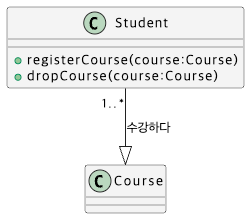
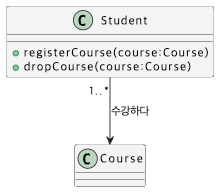
클래스 관계에 따른 UML 구성

diff --git a/src/main/java/modeling/association/checkpoint7/Main.java b/src/main/java/modeling/association/checkpoint7/Main.java
@@ -1,0 +1,120 @@
+package modeling.association.checkpoint7;
+
+import java.util.Vector;
+
+class Student{
+    private String name;
+    private Vector<Transcript> transcripts;
+
+    public Student(String name) {
+        this.name = name;
+        this.transcripts = new Vector<Transcript>();
+    }
+
+    public void addTranscript(Transcript transcript) {
+        this.transcripts.add(transcript);
+    }
+
+    public Vector<Course> getCourses() {
+        Vector<Course> courses = new Vector<Course>();
+        for (Transcript transcript : transcripts) {
+            courses.add(transcript.getCourse());
+        }
+        return courses;
+    }
+}
+
+class Course{
+    private String name;
+    private Vector<Transcript> transcripts;
+
+    public Course(String name) {
+        this.name = name;
+        this.transcripts = new Vector<Transcript>();
+    }
+
+    public void addTranscript(Transcript transcript) {
+        this.transcripts.add(transcript);
+    }
+
+    public String getName() {
+        return name;
+    }
+
+    public Vector<Student> getStudents() {
+        Vector<Student> students = new Vector<Student>();
+        for (Transcript transcript : transcripts) {
+            students.add(transcript.getStudent());
+        }
+        return students;
+    }
+}
+
+class Transcript{
+    private Student student;
+    private Course course;
+    private String date;
+    private String grade;
+
+    public Transcript(Student student, Course course) {
+        this.student = student;
+        this.student.addTranscript(this);
+        this.course = course;
+        this.course.addTranscript(this);
+    }
+
+    public Student getStudent() {
+        return student;
+    }
+
+    public Course getCourse() {
+        return course;
+    }
+
+    public void setDate(String date) {
+        this.date = date;
+    }
+
+    public String getDate() {
+        return date;
+    }
+
+    public void setGrade(String grade) {
+        this.grade = grade;
+    }
+
+    public String getGrade() {
+        return grade;
+    }
+}
+
+
+public class Main {
+    public static void main(String[] args) {
+        Student s1 = new Student("학생1");
+        Student s2 = new Student("학생2");
+
+        Course se = new Course("Software Engineering");
+        Course dp = new Course("Design Pattern");
+
+        Transcript t1 = new Transcript(s1, se); //학생1이 소프트웨어공학 수강
+        Transcript t2 = new Transcript(s1, dp); //학생1이 디자인패턴 수강
+        Transcript t3 = new Transcript(s2, dp); //학생2가 디자인패턴 수강
+
+        //학생1의 수강 학기와 학점 입력(소프트웨어공학에서 2025년 1학기에 A+취득, 디자인패턴에서 2024년 2학기에 A취득)
+        t1.setDate("2025-1");
+        t1.setGrade("A+");
+        t2.setDate("2024-2");
+        t2.setGrade("A");
+        //학생2의 수강 학기와 학점 입력(디자인패턴에서 2025년 2학기에 B취득)
+        t3.setDate("2025-2");
+        t3.setGrade("B");
+
+        //학생1의 수강 내역 출력
+        Vector<Course> courses = s1.getCourses();
+        for (Course course : courses) {
+            System.out.println(course.getName());
+        }
+
+    }
+}

diff --git a/src/main/java/modeling/aggregation_composition/compositon/Composition.java b/src/main/java/modeling/aggregation_composition/compositon/Composition.java
@@ -1,0 +1,62 @@
+package modeling.aggregation_composition.compositon;
+
+import java.util.*;
+
+/**
+ * Composition: Computer 내부에서 직접 부품 생성
+ * Multiplicity:
+ * - CPU:        1..*
+ * - MainBoard:  1
+ * - Memory:     2..4
+ * - PowerSupply:1
+ */
+
+class CPU {
+    public void dispose() { System.out.println("CPU disposed"); }
+}
+class MainBoard {
+    public void dispose() { System.out.println("MainBoard disposed"); }
+}
+class Memory {
+    public void dispose() { System.out.println("Memory disposed"); }
+}
+class PowerSupply {
+    public void dispose() { System.out.println("PowerSupply disposed"); }
+}
+
+class Computer {
+    private final List<CPU> cpus;
+    private final MainBoard mainBoard;
+    private final List<Memory> memories;
+    private final PowerSupply powerSupply;
+
+    public Computer(int cpuCount, int memoryCount) {
+        if (cpuCount < 1)
+            throw new IllegalArgumentException("CPU must be at least 1 (1..*)");
+        if (memoryCount < 2 || memoryCount > 4)
+            throw new IllegalArgumentException("Memory must be between 2 and 4");
+
+        // Computer가 직접 부품 생성
+        List<CPU> cpuList = new ArrayList<>();
+        for (int i = 0; i < cpuCount; i++) cpuList.add(new CPU());
+        this.cpus = Collections.unmodifiableList(cpuList);
+
+        List<Memory> memList = new ArrayList<>();
+        for (int i = 0; i < memoryCount; i++) memList.add(new Memory());
+        this.memories = Collections.unmodifiableList(memList);
+
+        this.mainBoard = new MainBoard();
+        this.powerSupply = new PowerSupply();
+    }
+
+    public int cpuCount() { return cpus.size(); }
+    public int memoryCount() { return memories.size(); }
+}
+
+public class Composition {
+    public static void main(String[] args) {
+        Computer pc = new Computer(2, 4); // CPU 2개, Memory 4개
+        pc = null; //PC를 null 만들었으므로 내부 부품도 같이 사라짐(GC를 통해서 지움).
+
+    }
+}

diff --git a/src/main/java/modeling/aggregation_composition/aggregation/Aggregation.java b/src/main/java/modeling/aggregation_composition/aggregation/Aggregation.java
@@ -1,0 +1,51 @@
+package modeling.aggregation_composition.aggregation;
+
+import java.util.*;
+
+/**
+ * Aggregation: 외부에서 만든 부품을 주입
+ * Multiplicity:
+ * - CPU:        1..*
+ * - MainBoard:  1
+ * - Memory:     2..4
+ * - PowerSupply:1
+ */
+
+class CPU {}
+class MainBoard {}
+class Memory {}
+class PowerSupply {}
+
+class Computer {
+    private final List<CPU> cpus;           // 1..*
+    private final MainBoard mainBoard;      // 1
+    private final List<Memory> memories;    // 2..4
+    private final PowerSupply powerSupply;  // 1
+
+    public Computer(List<CPU> cpus, MainBoard mainBoard, List<Memory> memories, PowerSupply powerSupply) {
+        if (cpus == null || cpus.isEmpty())
+            throw new IllegalArgumentException("CPU must be at least 1 (1..*)");
+        if (memories == null || memories.size() < 2 || memories.size() > 4)
+            throw new IllegalArgumentException("Memory must be between 2 and 4");
+
+        this.cpus = Collections.unmodifiableList(new ArrayList<>(cpus));
+        this.mainBoard = Objects.requireNonNull(mainBoard);
+        this.memories = Collections.unmodifiableList(new ArrayList<>(memories));
+        this.powerSupply = Objects.requireNonNull(powerSupply);
+    }
+
+    public int cpuCount() { return cpus.size(); }
+    public int memoryCount() { return memories.size(); }
+}
+
+public class Aggregation {
+    public static void main(String[] args) {
+        List<CPU> cpus = Arrays.asList(new CPU(), new CPU());       // 1..*
+        List<Memory> mems = Arrays.asList(new Memory(), new Memory()); // 2..4
+        MainBoard mb = new MainBoard();
+        PowerSupply psu = new PowerSupply();
+
+        Computer pc = new Computer(cpus, mb, mems, psu);
+        pc = null; // Computer 참조는 끊겼지만, 부품들은 main 변수들이 들고 있어 여전히 살아있음 → 재사용 가능 (집약)
+    }
+}

diff --git a/src/main/java/modeling/dependency/dependency.java b/src/main/java/modeling/dependency/dependency.java
@@ -1,0 +1,48 @@
+package modeling.dependency;
+
+class GasStation {
+    void provideFuel() {
+        System.out.println("주유소: 기름을 채워줍니다!");
+    }
+}
+
+class Car {
+    void drive() {
+        System.out.println("자동차가 달립니다.");
+    }
+
+    // 의존 관계: refuel 메서드 실행 시점에만 GasStation 사용
+    void refuel(GasStation station) {
+        station.provideFuel();
+        System.out.println("자동차: 주유 완료!");
+    }
+}
+
+class Person {
+    private final Car car; // 연관 관계: 사람은 자동차를 항상 소유
+
+    public Person(Car car) {
+        this.car = car;
+    }
+
+    void goToWork() {
+        System.out.println("사람이 출근합니다.");
+        car.drive();
+    }
+
+    void refuelAt(GasStation station) {
+        System.out.println("사람이 주유소에 들렀습니다.");
+        car.refuel(station); // Car가 GasStation에 "잠깐" 의존
+    }
+}
+
+public class dependency {
+    public static void main(String[] args){
+        Car car = new Car();
+        Person person = new Person(car);  // 연관: 사람은 자동차 소유
+        GasStation station = new GasStation();
+
+        person.goToWork();         // 자동차를 이용해 출근
+        person.refuelAt(station);  // 잠깐 주유소 이용 (의존)
+    }
+}

diff --git a/src/main/java/modeling/realization/Realization.java b/src/main/java/modeling/realization/Realization.java
@@ -1,0 +1,29 @@
+package modeling.realization;
+
+interface Flyable {
+    void fly();
+}
+
+class Bird implements Flyable {
+    @Override
+    public void fly() {
+        System.out.println("새가 하늘을 납니다.");
+    }
+}
+
+class Plane implements Flyable {
+    @Override
+    public void fly() {
+        System.out.println("비행기가 하늘을 납니다.");
+    }
+}
+
+public class Realization {
+    public static void main(String[] args) {
+        Flyable f1 = new Bird();
+        Flyable f2 = new Plane();
+
+        f1.fly();
+        f2.fly();
+    }
+}

diff --git a/src/main/java/modeling/generalization/DishWasher.java b/src/main/java/modeling/generalization/DishWasher.java
@@ -1,0 +1,13 @@
+package modeling.generalization;
+
+public class DishWasher extends HomeAppliancies{
+    @Override
+    public void turnOn() {
+        System.out.println("Dish Washer is turned on");
+    }
+
+    @Override
+    public void turnOff() {
+        System.out.println("Dish Washer is turned off");
+    }
+}

diff --git a/src/main/java/modeling/generalization/Freezer.java b/src/main/java/modeling/generalization/Freezer.java
@@ -1,0 +1,13 @@
+package modeling.generalization;
+
+public class Freezer extends HomeAppliancies{
+    @Override
+    public void turnOn(){
+        System.out.println("Freezer is turned on");
+    }
+
+    @Override
+    public void turnOff(){
+        System.out.println("Freezer is turned off");
+    }
+}

diff --git a/src/main/java/modeling/generalization/Washer.java b/src/main/java/modeling/generalization/Washer.java
@@ -1,0 +1,12 @@
+package modeling.generalization;
+
+public class Washer extends HomeAppliancies{
+   @Override
+    public void turnOn(){
+        System.out.println("Washer is turned on");
+    }
+    @Override
+    public void turnOff(){
+        System.out.println("Washer is turned off");
+    }
+}

diff --git a/src/main/java/modeling/generalization/HomeAppliancies.java b/src/main/java/modeling/generalization/HomeAppliancies.java
@@ -1,0 +1,11 @@
+package modeling.generalization;
+
+public abstract class HomeAppliancies {
+    private int serialNo;
+    private String manufacturer;
+    private int year;
+
+    public abstract void turnOn();
+    public abstract void turnOff();
+
+}

diff --git a/src/main/java/modeling/association/checkpoint5/Student.java b/src/main/java/modeling/association/checkpoint5/Student.java
@@ -1,5 +1,5 @@
 package modeling.association.checkpoint5;
-import java.util.Vector
+import java.util.Vector;
 
 public class Student {
     private String name;
